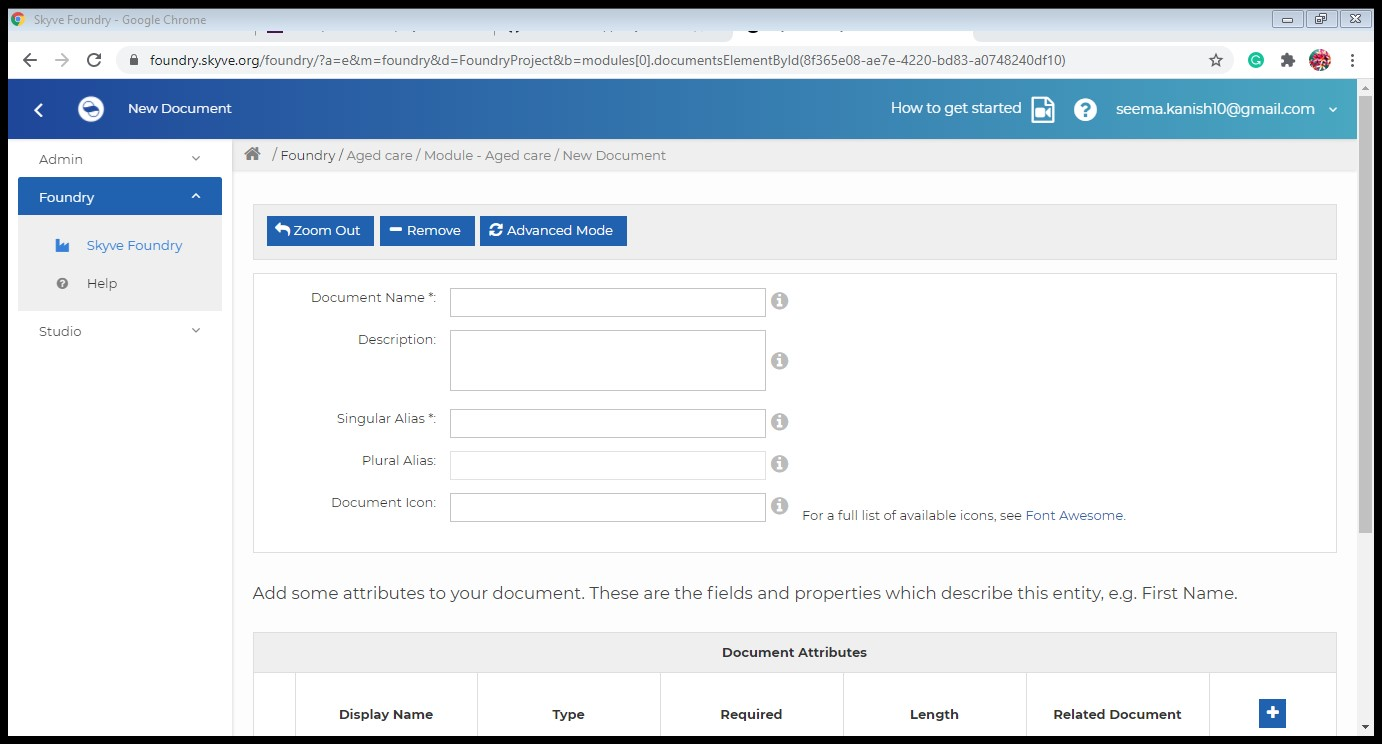
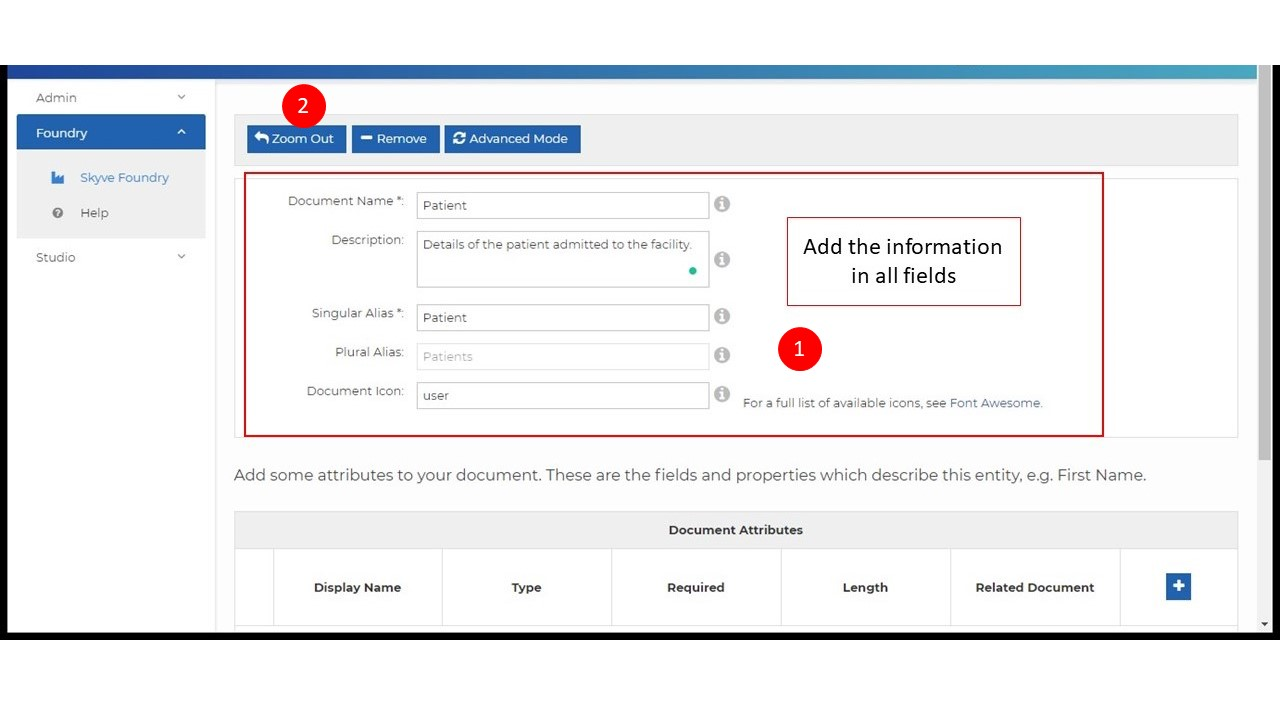
update readme

diff --git a/readme.md b/readme.md
@@ -1,54 +1,56 @@
-
 # agedCare Application Tutorial
 
 Before starting of this tutorial it is important to go through few questions below:
 
-
 ### Contents
-* [1. Is This Tutorial Right For Me ?](#)
-* [2. AgedCare App Overview]()
-  * [Functionality overview]()
-  * [Low code App]() using Skyve Foundry
-  * [Low-code Extensions]()
-* [3. No-code Development]()
-* [4. Low-code Extensions]()
-* [5. Java Extensions]()
-  
-* [1. Getting Started](https://github.com/seema-source/Aged-care/blob/master/readme.md#1-getting-started)
-* [2. Create](https://github.com/seema-source/Aged-care/blob/master/readme.md#2-create)
-* [3. Collaboration](https://github.com/seema-source/Aged-care/blob/master/readme.md#3-collaboration)
-* [4. Import Project in Eclipse](https://github.com/seema-source/Aged-care/blob/master/readme.md#4-import-project-in-eclipse)
-  * [4.1 Install Eclipse](https://github.com/seema-source/Aged-care/blob/master/readme.md#41--install-eclipse)
-  * [4.2  Install and Configue Wildfly Server](https://github.com/seema-source/Aged-care/blob/master/readme.md#42--install-and-configue-wildfly-server)
-  * [4.3  Add Repository in Eclipse](https://github.com/seema-source/Aged-care/blob/master/readme.md#43--add-repository-in-eclipse)
-  * [4.4  Import Project](https://github.com/seema-source/Aged-care/blob/master/readme.md#44--import-project)
-  * [4.5  Set the server](https://github.com/seema-source/Aged-care/blob/master/readme.md#45--set-the-server)
-* [5. Deploy and Configure Skyve Project](https://github.com/seema-source/Aged-care/blob/master/readme.md#5-deploy-and-configure-skyve-project)
-* [6. List Views](https://github.com/seema-source/Aged-care/blob/master/readme.md#6-list-views)
-  * [6.1  Patient List](https://github.com/seema-source/Aged-care/blob/master/readme.md#61--patient-list)
-  * [6.2  Facility List](https://github.com/seema-source/Aged-care/blob/master/readme.md#62--facility-list)
-  * [6.3  Assessments List](https://github.com/seema-source/Aged-care/blob/master/readme.md#63--assessments-list)
-* [7. Edit Views, Layout, and Components](https://github.com/seema-source/Aged-care/blob/master/readme.md#7-edit-views-layout-and-components)
-  * [7.1  Patient Edit view](https://github.com/seema-source/Aged-care/blob/master/readme.md#71--patient-edit-view)
-  * [7.2  Facility Edit view](https://github.com/seema-source/Aged-care/blob/master/readme.md#72--facility-edit-view)
-  * [7.3  Assessment Edit view](https://github.com/seema-source/Aged-care/blob/master/readme.md#73--assessment-edit-view)
-* [8. Roles](https://github.com/seema-source/Aged-care#8-roles)
-* [9. Conditions](https://github.com/seema-source/Aged-care#9-conditions)
-* [10. Bizlets](https://github.com/seema-source/Aged-care#10-bizlets)
-* [11. Actions](https://github.com/seema-source/Aged-care#11-actions)
+
+- [1. Is This Tutorial Right For Me ?](#)
+- [2. AgedCare App Overview]()
+  - [Functionality overview]()
+  - [Low code App]() using Skyve Foundry
+  - [Low-code Extensions]()
+- [3. No-code Development]()
+- [4. Low-code Extensions]()
+- [5. Java Extensions]()
+
+- [1. Getting Started](https://github.com/seema-source/Aged-care/blob/master/readme.md#1-getting-started)
+- [2. Create](https://github.com/seema-source/Aged-care/blob/master/readme.md#2-create)
+- [3. Collaboration](https://github.com/seema-source/Aged-care/blob/master/readme.md#3-collaboration)
+- [4. Import Project in Eclipse](https://github.com/seema-source/Aged-care/blob/master/readme.md#4-import-project-in-eclipse)
+  - [4.1 Install Eclipse](https://github.com/seema-source/Aged-care/blob/master/readme.md#41--install-eclipse)
+  - [4.2 Install and Configue Wildfly Server](https://github.com/seema-source/Aged-care/blob/master/readme.md#42--install-and-configue-wildfly-server)
+  - [4.3 Add Repository in Eclipse](https://github.com/seema-source/Aged-care/blob/master/readme.md#43--add-repository-in-eclipse)
+  - [4.4 Import Project](https://github.com/seema-source/Aged-care/blob/master/readme.md#44--import-project)
+  - [4.5 Set the server](https://github.com/seema-source/Aged-care/blob/master/readme.md#45--set-the-server)
+- [5. Deploy and Configure Skyve Project](https://github.com/seema-source/Aged-care/blob/master/readme.md#5-deploy-and-configure-skyve-project)
+- [6. List Views](https://github.com/seema-source/Aged-care/blob/master/readme.md#6-list-views)
+  - [6.1 Patient List](https://github.com/seema-source/Aged-care/blob/master/readme.md#61--patient-list)
+  - [6.2 Facility List](https://github.com/seema-source/Aged-care/blob/master/readme.md#62--facility-list)
+  - [6.3 Assessments List](https://github.com/seema-source/Aged-care/blob/master/readme.md#63--assessments-list)
+- [7. Edit Views, Layout, and Components](https://github.com/seema-source/Aged-care/blob/master/readme.md#7-edit-views-layout-and-components)
+  - [7.1 Patient Edit view](https://github.com/seema-source/Aged-care/blob/master/readme.md#71--patient-edit-view)
+  - [7.2 Facility Edit view](https://github.com/seema-source/Aged-care/blob/master/readme.md#72--facility-edit-view)
+  - [7.3 Assessment Edit view](https://github.com/seema-source/Aged-care/blob/master/readme.md#73--assessment-edit-view)
+- [8. Roles](https://github.com/seema-source/Aged-care#8-roles)
+- [9. Conditions](https://github.com/seema-source/Aged-care#9-conditions)
+- [10. Bizlets](https://github.com/seema-source/Aged-care#10-bizlets)
+- [11. Actions](https://github.com/seema-source/Aged-care#11-actions)
 
 ## 1. Getting Started
+
 Before continuing with our tutorial, there are some pages you may want to visit:
-*  [What is Skyve?](https://skyve.org/what-is-skyve) - Will answer what [Skyve](https://skyve.org) is, and how it will be useful in your Enterprise Application Development.
 
-*  [Getting Started](https://skyve.org/getting-started) - Will help give you some ideas on how to start with our [Skyve](https://skyve.org) Framework.
+- [What is Skyve?](https://skyve.org/what-is-skyve) - Will answer what [Skyve](https://skyve.org) is, and how it will be useful in your Enterprise Application Development.
 
-* [Dev Guide](https://skyvers.github.io/skyve-dev-guide/) - Will help you learn and understand about our development. It also covers most [Skyve Framework](https://skyve.org) elements and concepts. There are many real examples for you to refer to also.
-* [Skyve foundry](https://foundry.skyve.org/)-Will help you to learn about skyve foundry.
+- [Getting Started](https://skyve.org/getting-started) - Will help give you some ideas on how to start with our [Skyve](https://skyve.org) Framework.
+
+- [Dev Guide](https://skyvers.github.io/skyve-dev-guide/) - Will help you learn and understand about our development. It also covers most [Skyve Framework](https://skyve.org) elements and concepts. There are many real examples for you to refer to also.
+- [Skyve foundry](https://foundry.skyve.org/)-Will help you to learn about skyve foundry.
 
 Now, lets move to the next step how to create application with [Skyve foundry](https://foundry.skyve.org/)
 
 ## 2. Create
+
 To create a new [Skyve](https://skyve.org) Project, you can go to the [Skyve foundry](https://foundry.skyve.org/) and [Get started](https://foundry.skyve.org/foundry/register.xhtml)
 
 and if you are already register Sign in with your register email and password.
@@ -56,52 +58,65 @@ and if you are already register Sign in with your register email and password.
 To create a new skyve project through foundry go to the [How to get started](https://youtu.be/G3OQu5PeUn8) on the top right-hand side of skyve foundry page and watch the video to create new application.
 
 Now, I will take you step by step creation of application:
-* Click on Add button
-![Add Button](doc_src_img/chapter1/1.png "Add Button") 
-* Enter the name of App and email address
-![Name and Email](doc_src_img/chapter1/2.png "Name and Email")
-* Click on save
-After that start build Data Design 
-* Click on Data Design to add the Documents
-![Data Design](doc_src_img/chapter1/3.jpg "Data Design")
-* Add all information as shown below
-![New Document](doc_src_img/chapter1/4.jpg "New Document")
+
+- Click on Add button
+  ![Add Button](doc_src_img/chapter1/1.png "Add Button")
+- Enter the name of App and email address
+  ![Name and Email](doc_src_img/chapter1/2.png "Name and Email")
+- Click on save
+  After that start build Data Design
+- Click on Data Design to add the Documents
+  ![Data Design](doc_src_img/chapter1/3.jpg "Data Design")
+- Add all information as shown below and click on Zoom out
+  ![New Document](doc_src_img/chapter1/4.jpg "New Document")
+- You can see your document on screen.
+- Next, create documents for Facility and Assessments same as patient and click on arrow to add attributes for each document
+  ![Documents and attributes](doc_src_img/chapter1/5.jpg "Documents and attributes")
+- Click on Add button to add attributes to patient document
+  ![Add attribute](doc_src_img/chapter1/6.jpg "Add attribute")
+- Add all the attributes for Patient, Facility, and Assessments as below
+  ![Patient attributes](doc_src_img/chapter1/7.jpg "Patient attributes")
+  ![Facility attributes](doc_src_img/chapter1/8.jpg "Facility attributes")
+  ![Assessment attributes](doc_src_img/chapter1/9.jpg "Assessment attributes")
+
 ## 3. Collaboration
 
 #### Setup to Github
 
 ## 4. Import Project in Eclipse
 
-#### 4.1  Install Eclipse
-#### 4.2  Install and Configue Wildfly Server
-#### 4.3  Add Repository in Eclipse
-#### 4.4  Import Project
-#### 4.5  Set the server
+#### 4.1 Install Eclipse
+
+#### 4.2 Install and Configue Wildfly Server
+
+#### 4.3 Add Repository in Eclipse
+
+#### 4.4 Import Project
+
+#### 4.5 Set the server
 
 ## 5. Deploy and Configure Skyve Project
 
 ## 6. List Views
 
-#### 6.1  Patient List
-#### 6.2  Facility List
-#### 6.3  Assessments List
+#### 6.1 Patient List
+
+#### 6.2 Facility List
+
+#### 6.3 Assessments List
 
 ## 7. Edit Views, Layout, and Components
 
-#### 7.1  Patient Edit view
-#### 7.2  Facility Edit view
-#### 7.3  Assessment Edit view
+#### 7.1 Patient Edit view
+
+#### 7.2 Facility Edit view
+
+#### 7.3 Assessment Edit view
 
 ## 8. Roles
+
 ## 9. Conditions
+
 ## 10. Bizlets
+
 ## 11. Actions
-
-
-
-
-
-
-
-
-
